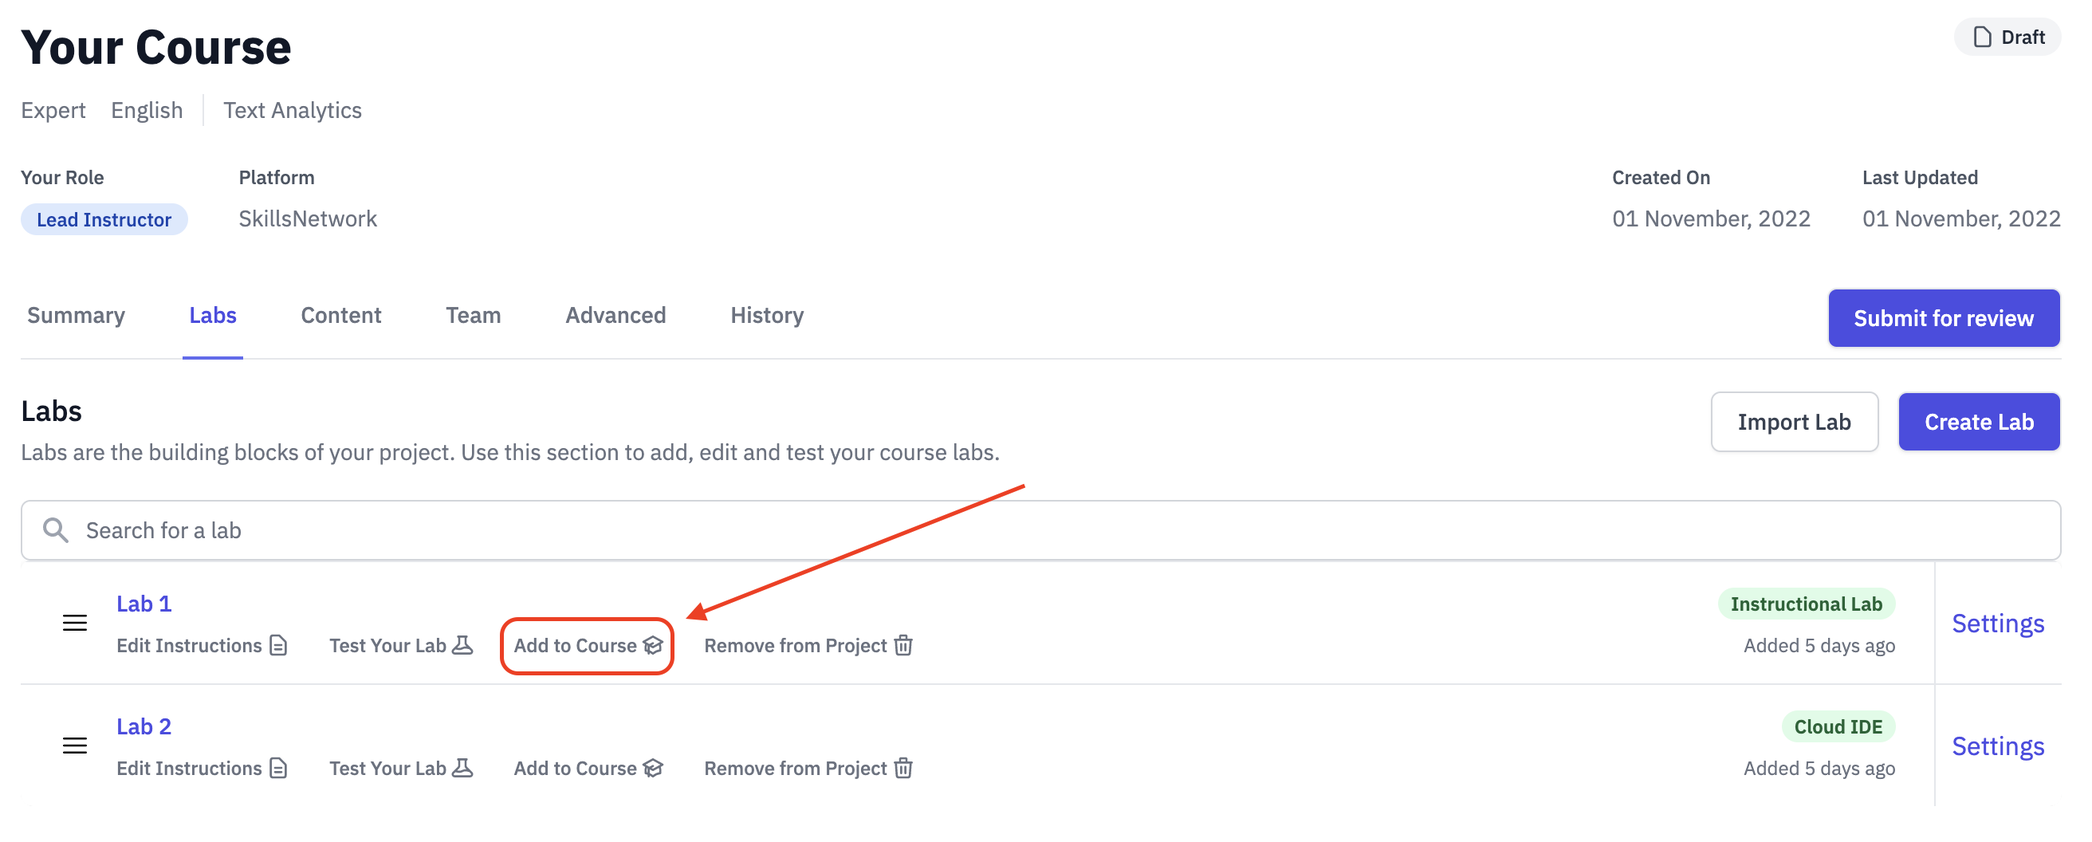
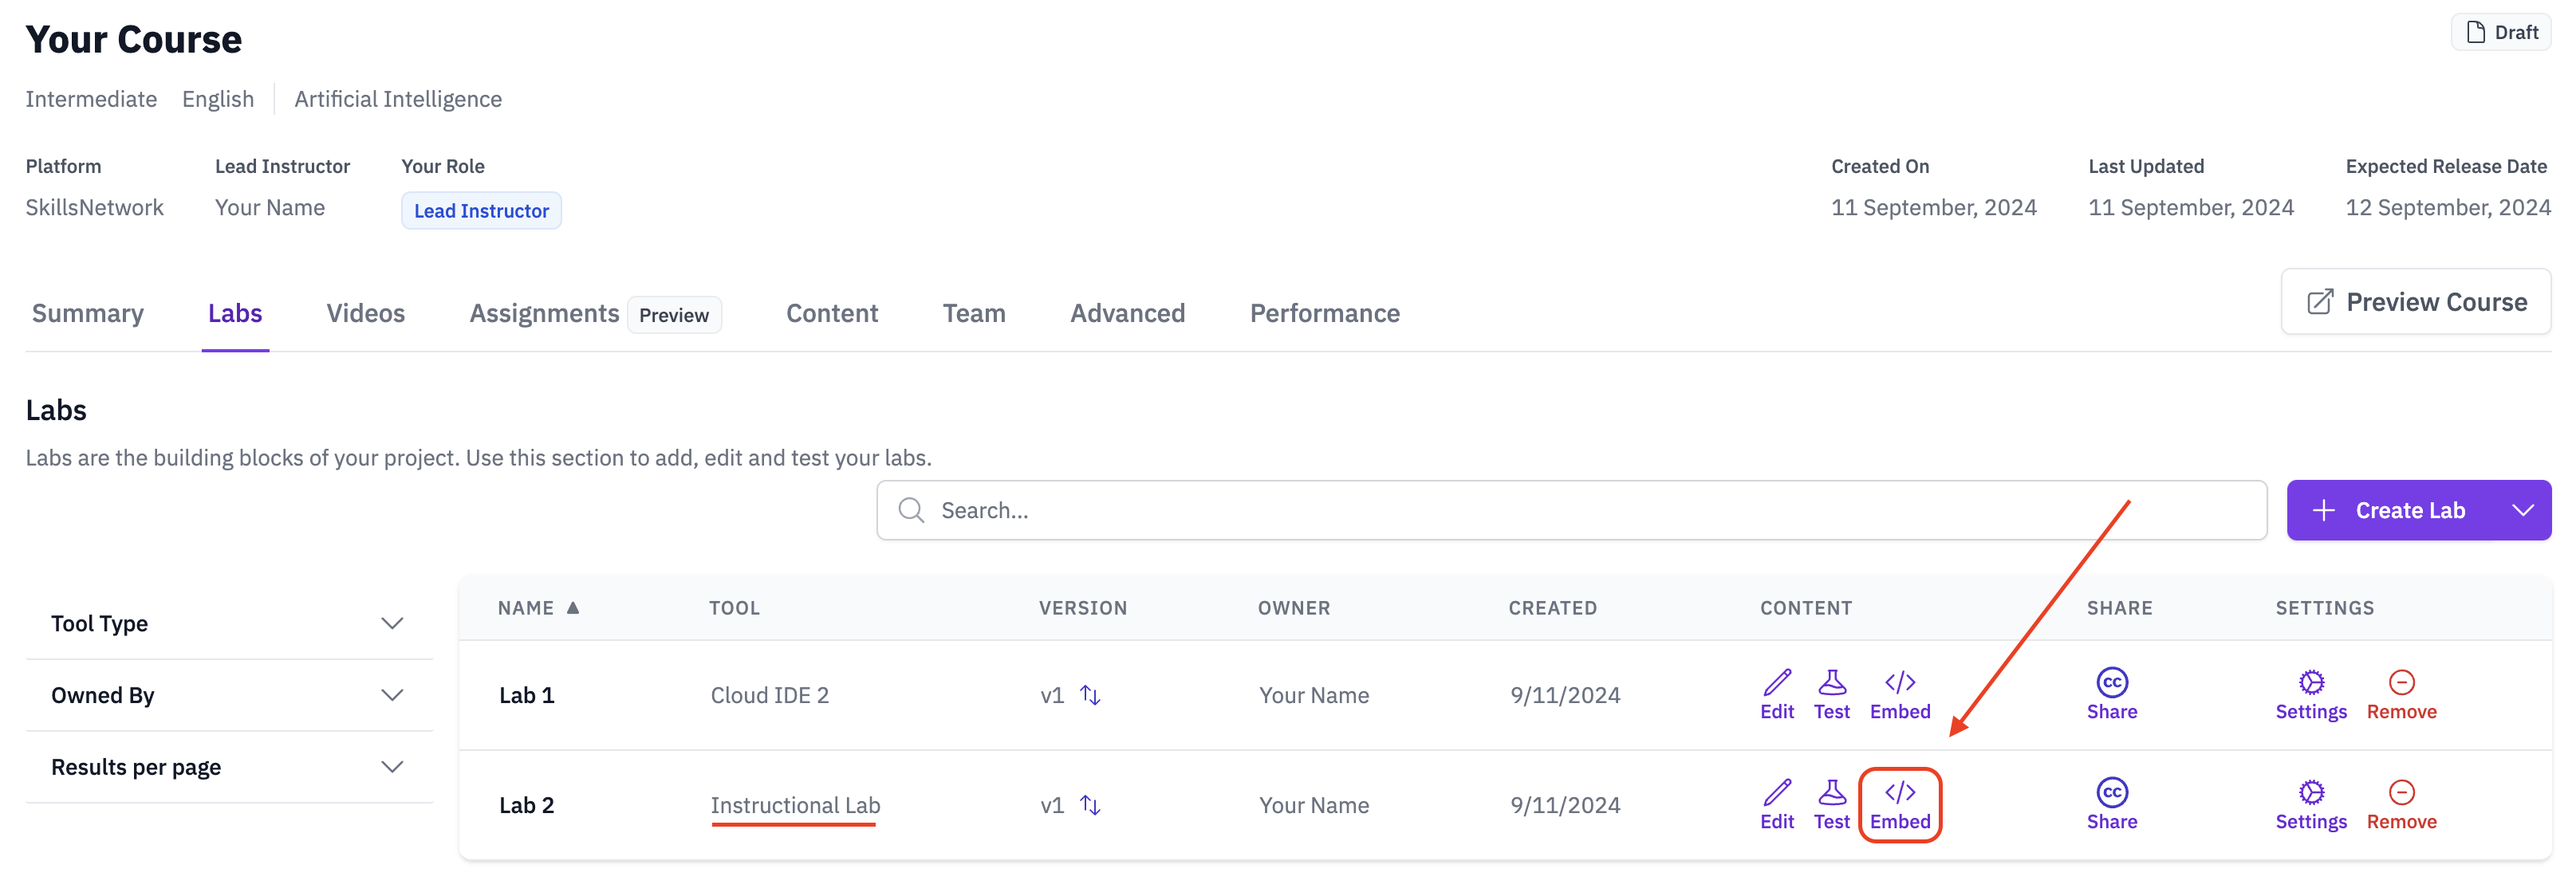
chore: updated add lab to course docs (#93)
* changed the instructional and non-instructional guide for coursera lab

* Fix: static image loading issue

diff --git a/docs/labs/adding-labs-to-courses/add-a-lab-to-a-coursera-course.md b/docs/labs/adding-labs-to-courses/add-a-lab-to-a-coursera-course.md
@@ -10,7 +10,7 @@ As a Skills Network author, you can create "instructional labs". These are labs 
 
 HTML files will be automatically generated from instructional labs so they can be easliy embedded or linked to from your course. To embed an instructional lab in your course, follow the steps below.
 
-1. On your course page, navigate to the lab you want (under the `Labs` tab) and click "Add to Course"
+1. On your course page, navigate to the lab you want (under the `Labs` tab) and click "Embed"
 
 ![image](/img/adding-labs-in-a-course/SN-AW-add-to-course.png)
 
@@ -57,11 +57,11 @@ HTML files will be automatically generated from instructional labs so they can b
 
 To add a (non-instructional) lab to your course in **Coursera**:
 
-1. In Coursera, go to the week and unit you want your lab to be in and add a new LTI Item.
+1. In Coursera, go to the week and unit you want your lab to be in and add a new App Item.
 
 ![image](/img/adding-labs-in-a-course/SN-Coursera-add-LTI-item.png)
 
-2. Add the following values to the corresponding fields within the LTI Item
+2. Add the following values to the corresponding fields within the App Item
 
 <table>
     <tr>
@@ -88,6 +88,24 @@ The Lab Launch url can be easily found in Author Workbench on your course page. 
 2. Copy the the Lab's Launchg Url by clicking on the `Copy` button.
 
 ![image](/img/adding-labs-in-a-course/SN-AW-coursera-lab-modal-lab-launch-url.png)
+
+3. Now, go back to Coursera and click on `App Manager` on the left side of your screen to create a new app name and configuration.
+
+![image](/img/adding-labs-in-a-course/SN-AW-coursera-lab-app-manager.png)
+
+4. Click on `Add app`
+
+![image](/img/adding-labs-in-a-course/SN-AW-coursera-lab-app-manager-add.png)
+
+5. Now, select `LTI 1.1` and enter the Coursera credentials you copied earlier from the Author Workbench.
+
+![image](/img/adding-labs-in-a-course/SN-AW-coursera-lab-app-manager-lti-input.png)
+
+6. After clicking **Continue**, name your app and set your learner privacy preferences. Then select `Add App`.
+
+![image](/img/adding-labs-in-a-course/SN-AW-coursera-lab-app-manager-lti-config.png)
+
+7. You can return to your 'App Item,' publish your newly created lab, and then launch it.
 
 ### LTI Credentials
 
